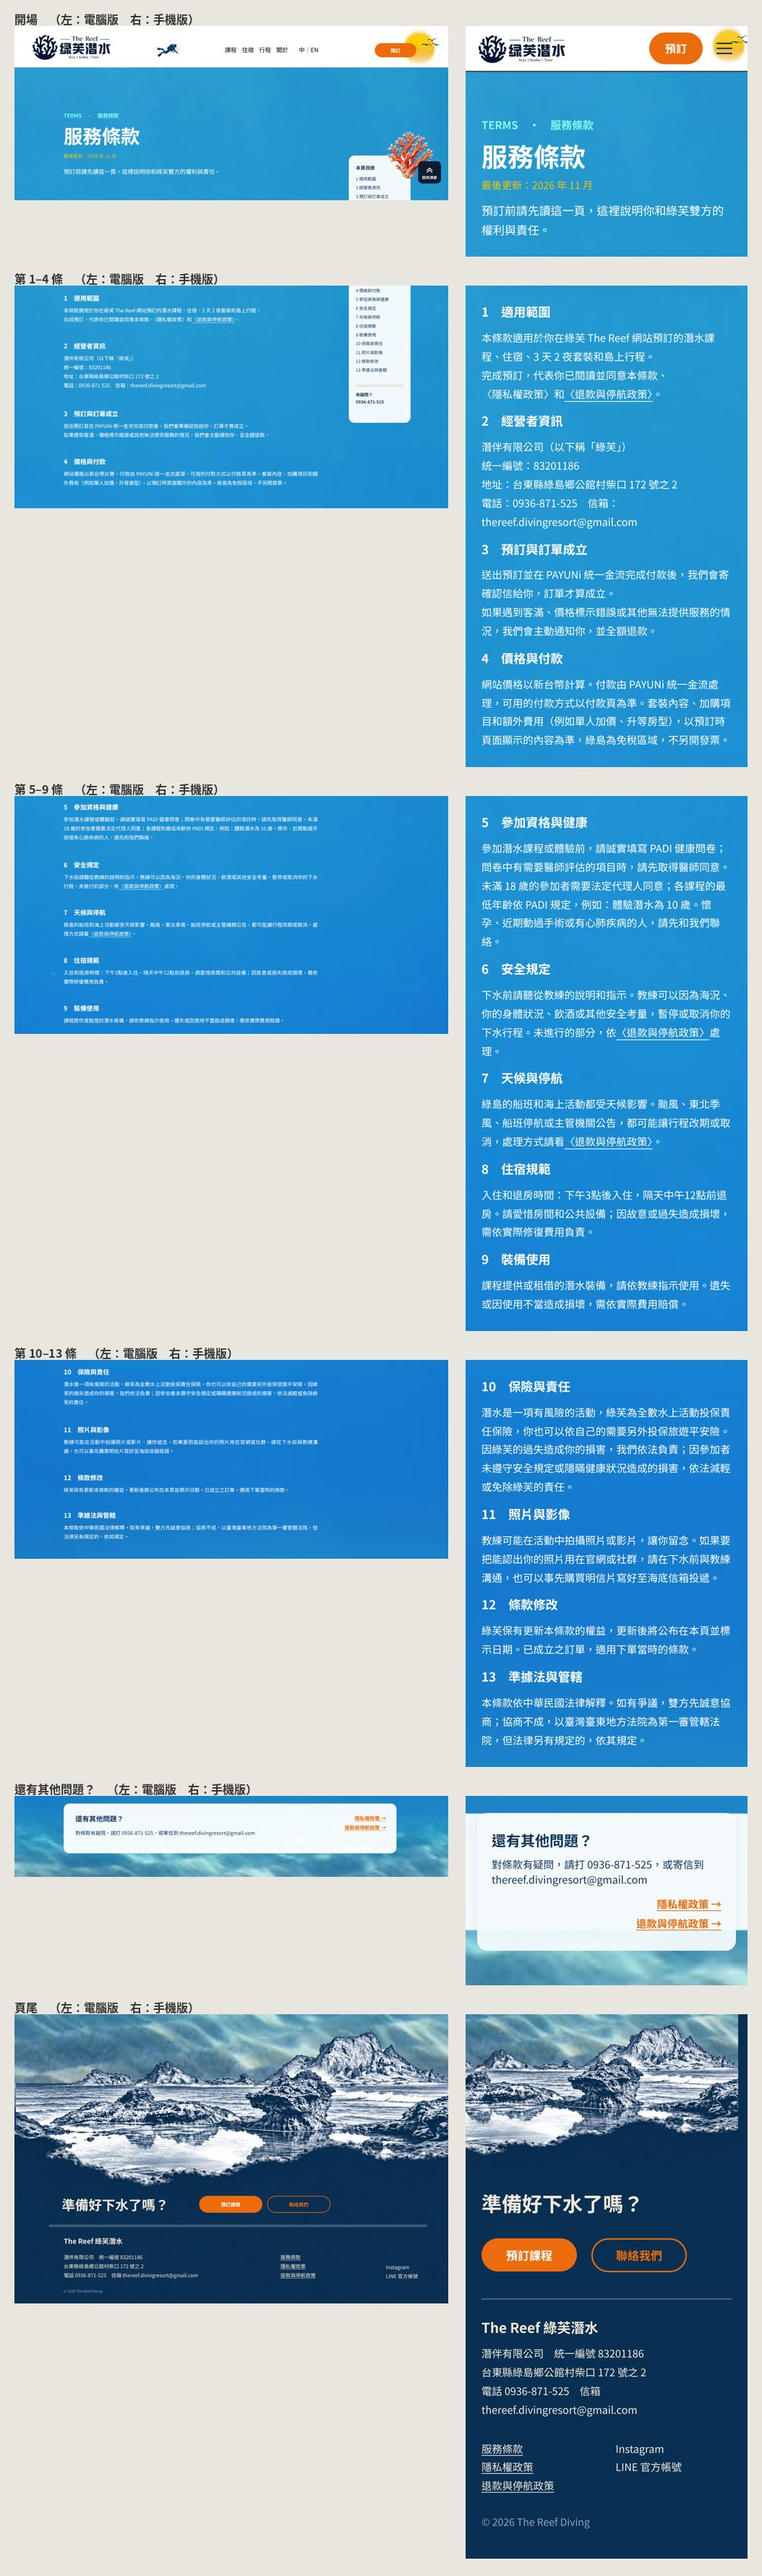
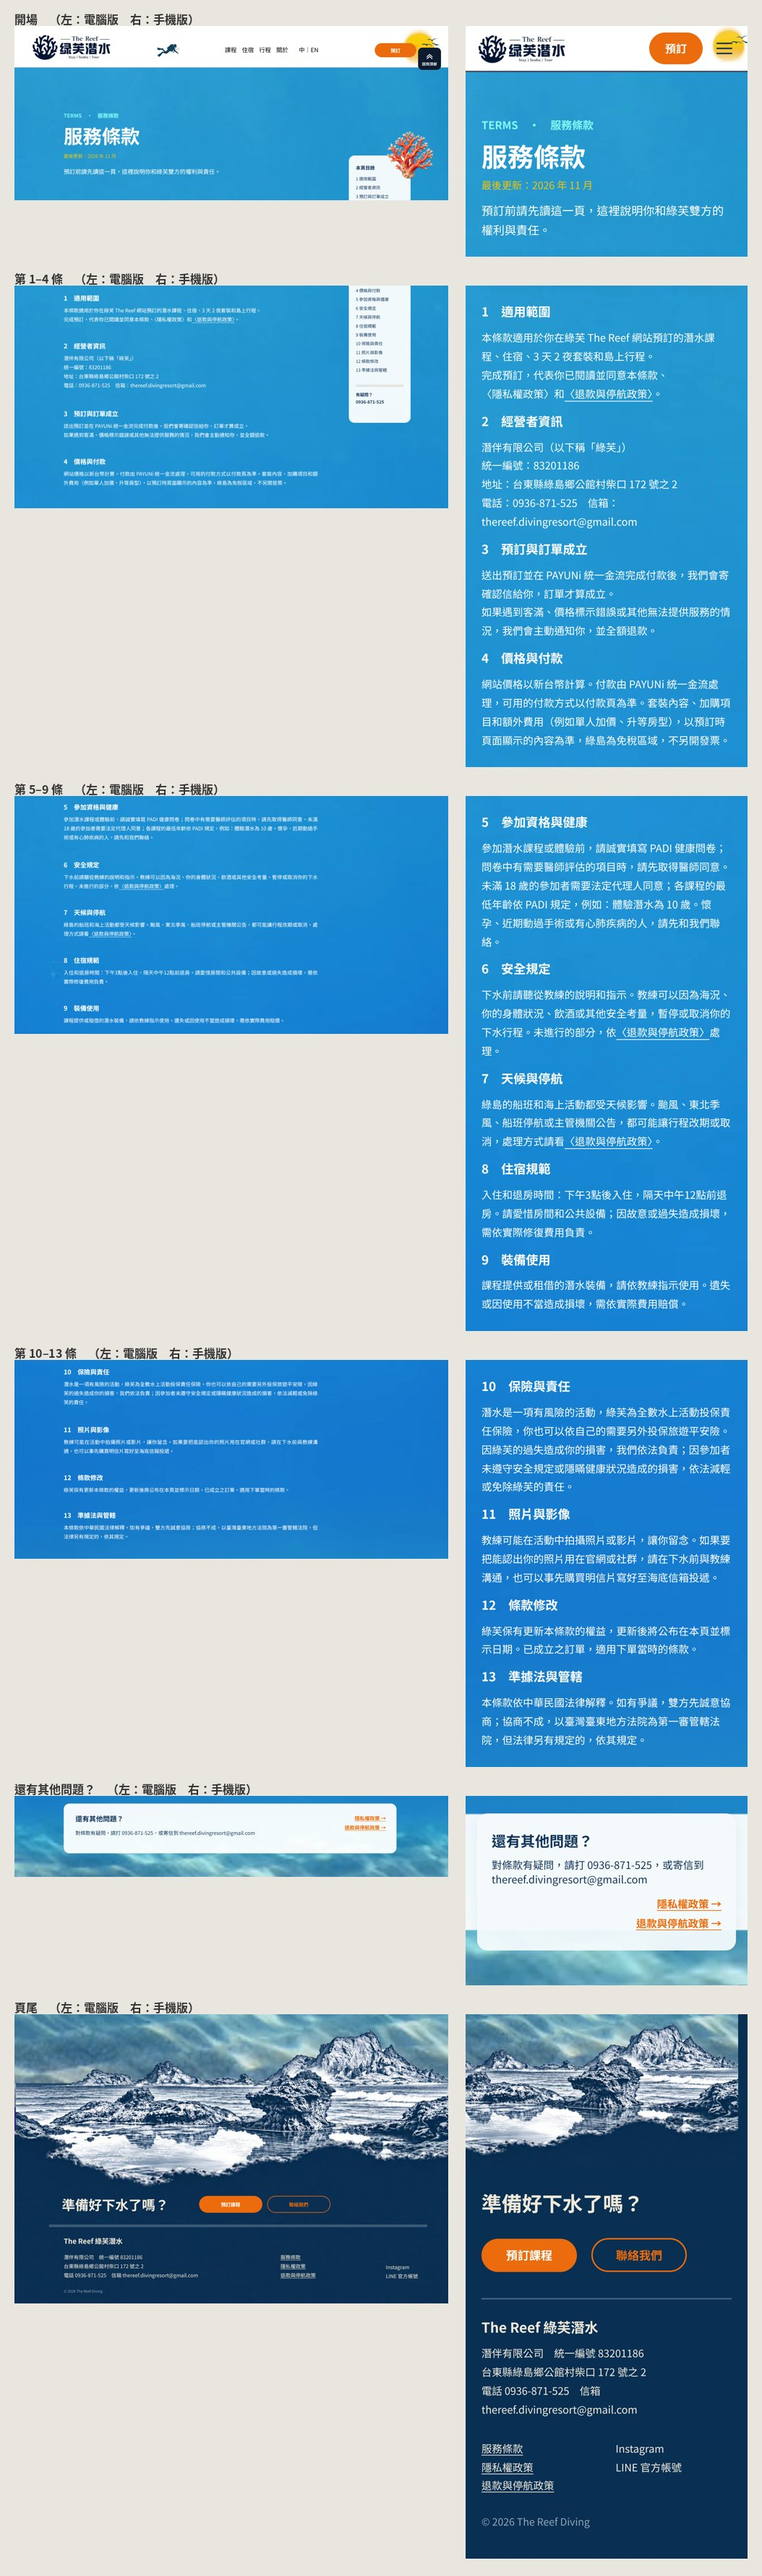
手機版：合併 main（11/23 Ambre 修改）、魚漂浮幅度跟著電腦版設定、條款目錄底色與行距、首頁地圖連結歸位；電腦版跟新 main 逐像素相同
Claude-Session: https://claude.ai/code/session_01CnUJQbiMrA1W4TEKzzgQDp

diff --git a/src/assets/css/canvas-mobile.css b/src/assets/css/canvas-mobile.css
@@ -64,7 +64,7 @@
 .hc-mband.left { margin-left: 0; }
 .hc-mfish { position: absolute; }
 .hc-mband > .hc-mbt { position: absolute !important; left: var(--bx) !important; top: var(--by) !important; width: auto !important; white-space: nowrap; }
-@keyframes hc-float { 0%, 100% { opacity: 1; transform: translate(0, 0); } 50% { opacity: 1; transform: translate(0, -8px); } }
+@keyframes hc-float { 0%, 100% { opacity: 1; transform: translate(0, 0); } 50% { opacity: 1; transform: translate(0, calc(-.6 * var(--famp, 14px))); } } /* 手機上漂浮幅度縮小 */
 
 /* 手機頁首：logo、預訂、選單按鈕；選單點開往下展開 */
 .hc-mhead {
@@ -150,7 +150,8 @@
 .hc-mg > .hc-submit { min-width: 160px; }
 
 /* 條款頁右側目錄：手機上改成內容前面的一張卡（不跟著捲動、不擋內容） */
-.hc-stickywrap { position: relative !important; left: auto !important; top: auto !important; width: auto !important; height: auto !important; order: var(--so, 15); margin: 0 16px 8px; }
+.hc-stickywrap { position: relative !important; left: auto !important; top: auto !important; width: auto !important; height: auto !important; order: var(--so, 15); margin: 0; padding: 0 16px 8px; background: #f5f3ef; }
+.hc-page-terms .hc-stickywrap { background: linear-gradient(#2597ce, #1f92d0); } /* 接上下兩段的底色 */
 .hc-sticky { position: relative !important; top: auto !important; width: auto !important; height: auto !important; padding: 18px 20px; border-radius: 14px; background: var(--mcard, #fff); box-shadow: 0 6px 20px rgba(18,53,91,.08); display: flex; flex-direction: column; gap: 10px; }
 .hc-sticky-card, .hc-sticky-line, .hc-sticky-img { display: none !important; }
 .hc-sticky > .hc-t { position: relative !important; left: auto !important; top: auto !important; width: auto !important; }
@@ -165,3 +166,4 @@
 .hc-mg.card.glass.ctop { border-bottom: 0; }
 /* 一張照片跨兩段（住宿背包客房）：下半段接在上一段最後，中間不留縫 */
 .hc-mband.joined { margin-top: calc(-1 * var(--msgap, 28px) + var(--msgap, 28px)); }
+.hc-sticky > .hc-t { line-height: 2.4 !important; } /* 目錄每一條比較好點 */

diff --git a/docs/手機版進度.md b/docs/手機版進度.md
@@ -36,7 +36,7 @@
 | 退款 | 完成 | 退款比例表維持左右兩欄（一行對一行） |
 
 ## 檢查結果（11/23）
-- 電腦版 1440、1280 九頁改前改後逐像素相同（18 張）。
+- 電腦版 1440、1280 九頁改前改後逐像素相同（18 張）；11/23 合併 main 的 c3c4444（Ambre 修改）後，跟新的 main 再比一次也全部相同。
 - 手機（iPhone 13）九頁：沒有橫向捲動、字都 ≥ 14px、按鈕 ≥ 44px、選單點得開。
 - npm test 32 題、預訂流程 17 項、預訂網頁驗算（手機、電腦都）全過；條款目錄檢查電腦版全過。
 - `MOBILE=1 about-form-test` 只有「頁尾聯絡我們 → 捲到 y=1250」這項不符：那是電腦版座標，手機上錨點在「聯絡我們」那段開頭，正常。
